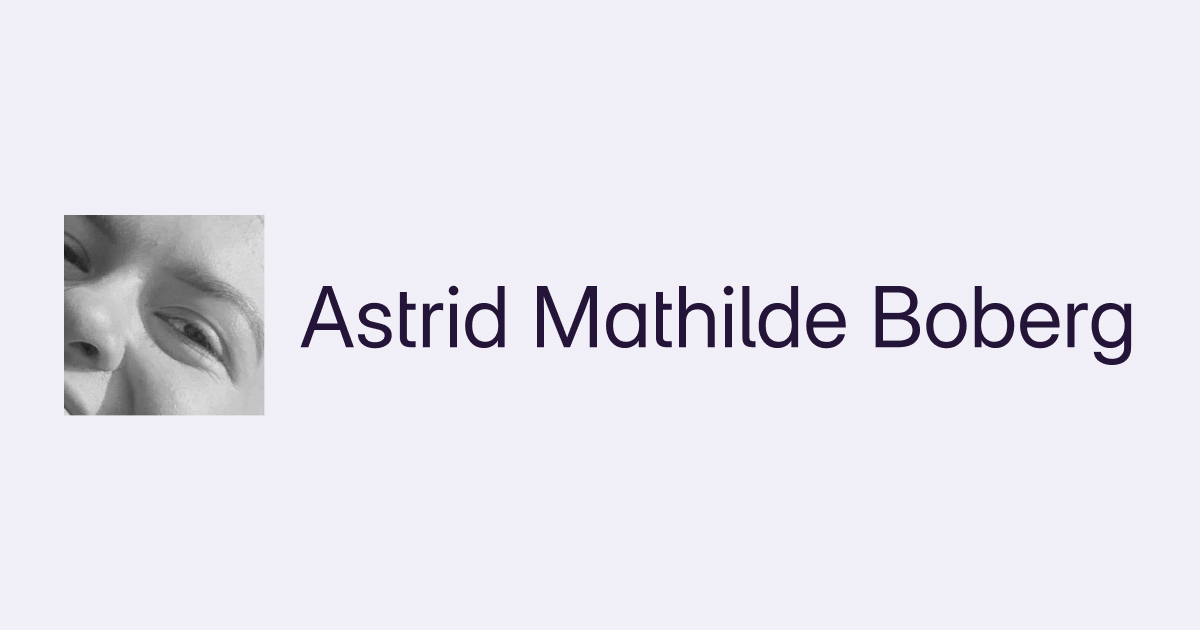
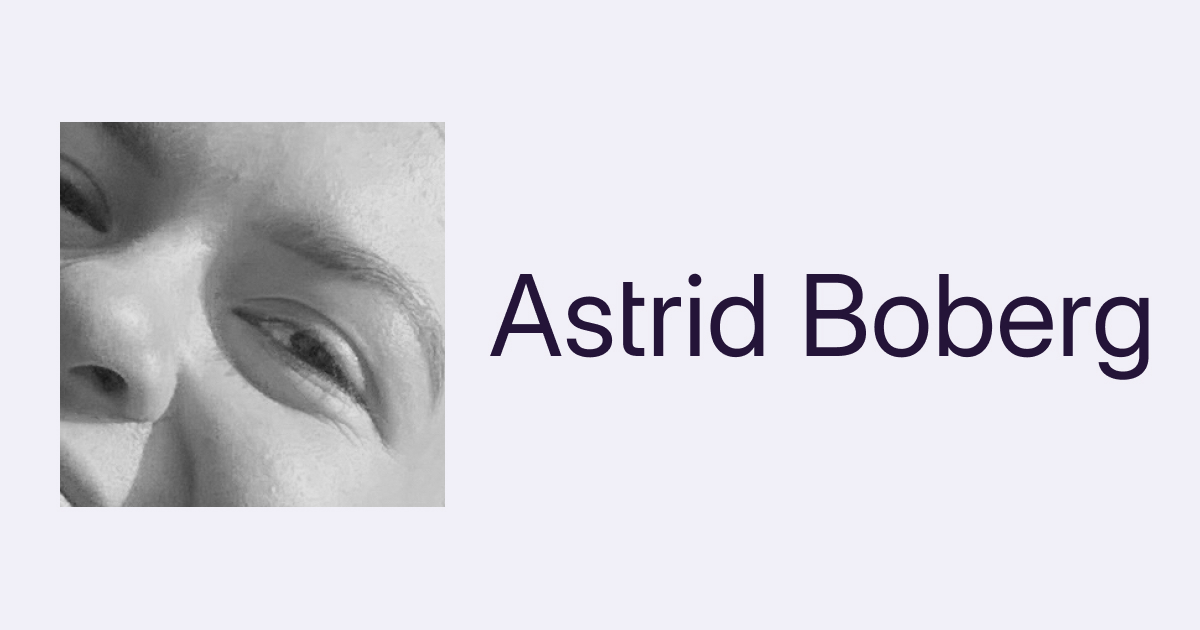
🎅🎄

Changed region(s): [[0.0308, 0.181, 0.9558, 0.8143]]

diff --git a/app/about/page.js b/app/about/page.js
@@ -27,7 +27,7 @@ export default function Resumee() {
     <p>I was born in April 1998 (currently 26 <BlockIcon>🎉</BlockIcon>) and I have 6 years experience with digital design and coding after working for design agencies in Harstad, Tromsø and Oslo. In August 2021, I started doing a five year integrated master in design at <a href="https://aho.no" target="_blank" rel="external">The Oslo School of Architecture and Design</a>.</p>
     </BlockColumn>
     <BlockColumn>
-    <BlockImage url={portrait} alt="Astrid Mathilde Boberg" width="600" height="600" sizes="(min-width: 670px) 50vw, 100vw" priority />
+    <BlockImage url={portrait} alt="Astrid Mathilde Boberg" width="600" height="600" sizes="(min-width: 670px) 70vw, 100vw" priority />
     </BlockColumn>
     </BlockRow>
     

diff --git a/app/layout.js b/app/layout.js
@@ -22,7 +22,7 @@ const interDisplay = localFont({
   ]
 })
 
-export const siteTitle = 'Astrid Mathilde Boberg';
+export const siteTitle = 'Astrid Boberg';
 
 export default function Layout({ children }) {
   return (
